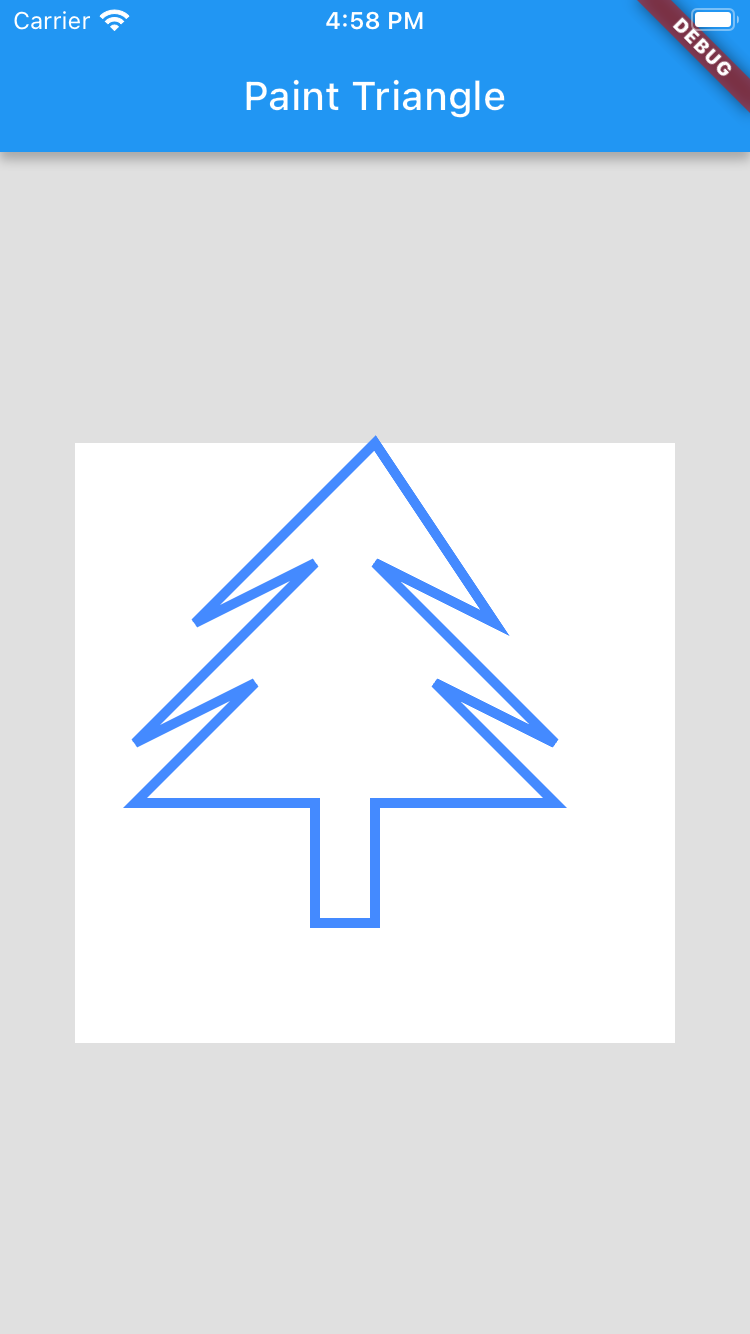
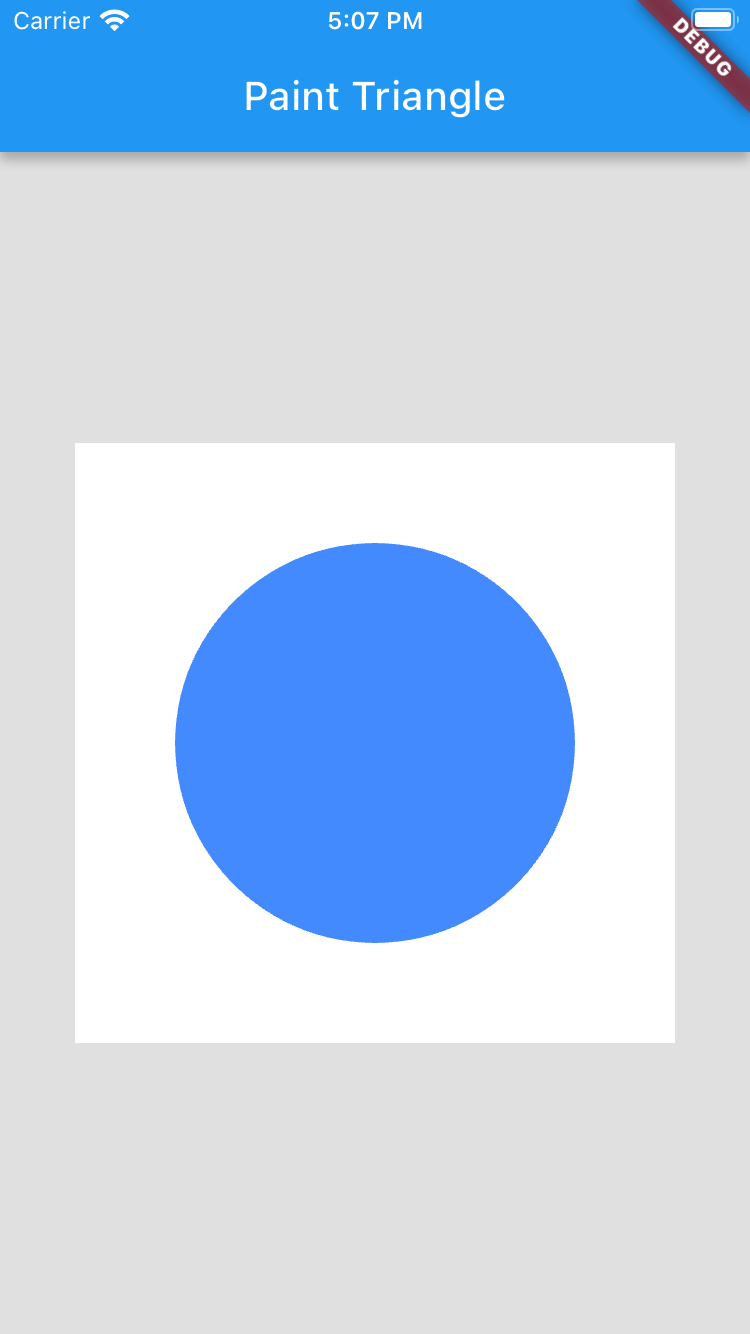
circle

Changed region(s): [[0.1533, 0.3073, 0.7667, 0.7069], [0.4293, 0.0, 0.5827, 0.0307]]

diff --git a/lib/main.dart b/lib/main.dart
@@ -42,38 +42,13 @@ class MyCustomPainter extends CustomPainter{
   @override
   void paint(Canvas canvas, Size size) {
     // CREATING THE BRUSH
-    Paint brush=Paint()..strokeWidth=5..color=Colors.blueAccent..style = PaintingStyle.stroke;
+    Paint brush=Paint()..strokeWidth=5..color=Colors.blueAccent..style = PaintingStyle.fill;
 
-    // CREATING THE PATH
-    final shape=Path();
+    // DRAWING THE CIRCLE IN CANVAS
+    //SYNTAX
+    //canvas.drawCircle(LOCATION, SIZE, BRUSH);
 
-   shape.moveTo(size.width/2, 0);
-   shape.relativeLineTo(size.width*0.2, size.height*0.3);
-    shape.relativeLineTo(-size.width*0.2, -size.height*0.1);
-    shape.relativeLineTo(size.width*0.3, size.height*0.3);
-    shape.relativeLineTo(-size.width*0.2, -size.height*0.1);
-    shape.relativeLineTo(size.width*0.2, size.height*0.2);
-    shape.relativeLineTo(-size.width*0.3, 0);
-    shape.relativeLineTo(0, size.height*0.2);
-    shape.relativeLineTo(-size.width*0.1, 0);
-    shape.relativeLineTo(0, -size.height*0.2);
-    shape.relativeLineTo(-size.width*0.3, 0);
-    shape.relativeLineTo(size.width*0.2, -size.height*0.2);
-    shape.relativeLineTo(-size.width*0.2, size.height*0.1);
-    shape.relativeLineTo(size.width*0.3, -size.height*0.3);
-    shape.relativeLineTo(-size.width*0.2, size.height*0.1);
-
-
-
-
-
-
-
-     shape.close();
-
-
-    canvas.drawPath(shape, brush);
-
+    canvas.drawCircle(Offset(size.width/2, size.height/2), 100, brush);
   }
 
   @override

diff --git a/README.md b/README.md
@@ -14,13 +14,13 @@ A few resources to get you started if this is your first Flutter project:
 
 # Screenshot 1
 
-<img src="https://github.com/Mirzaazmath/flutter_custompaint_overview/blob/tree/assets/Screenshot1.png" height="400">
+<img src="https://github.com/Mirzaazmath/flutter_custompaint_overview/blob/circle/assets/Screenshot1.png" height="400">
 
 
 
 # Screenshot 2
 
-<img src="https://github.com/Mirzaazmath/flutter_custompaint_overview/blob/tree/assets/Screenshot2.png" height="400">
+<img src="https://github.com/Mirzaazmath/flutter_custompaint_overview/blob/circle/assets/Screenshot2.png" height="400">
 
 - [Lab: Write your first Flutter app](https://docs.flutter.dev/get-started/codelab)
 - [Cookbook: Useful Flutter samples](https://docs.flutter.dev/cookbook)
